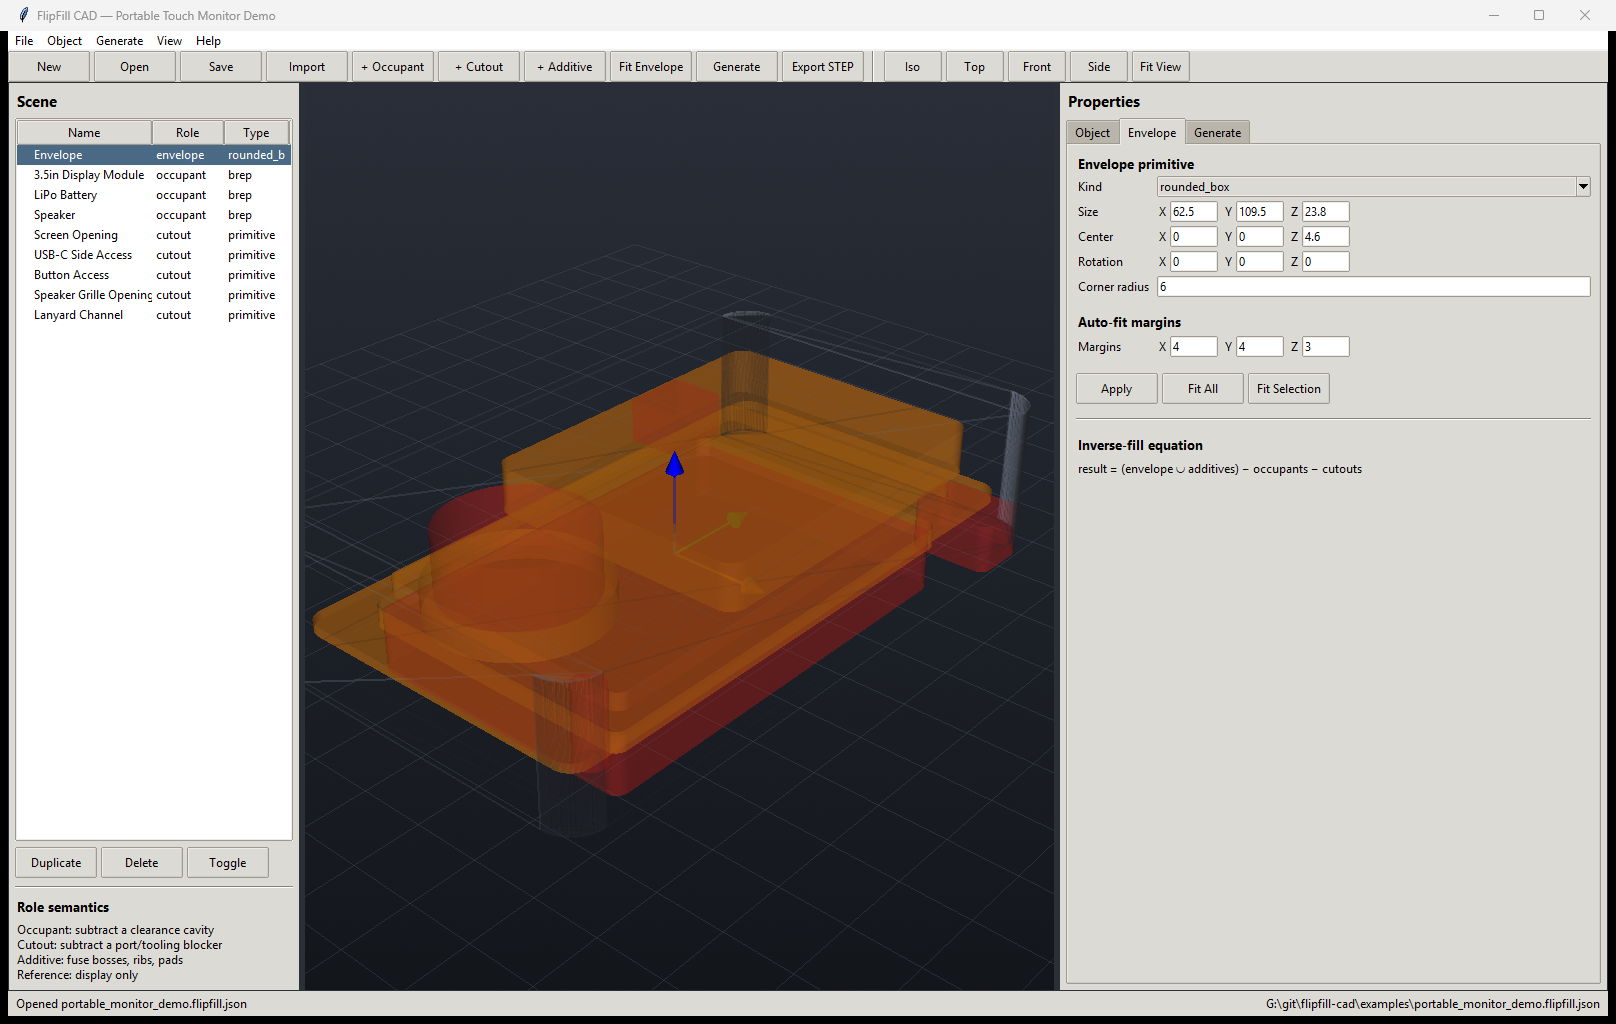
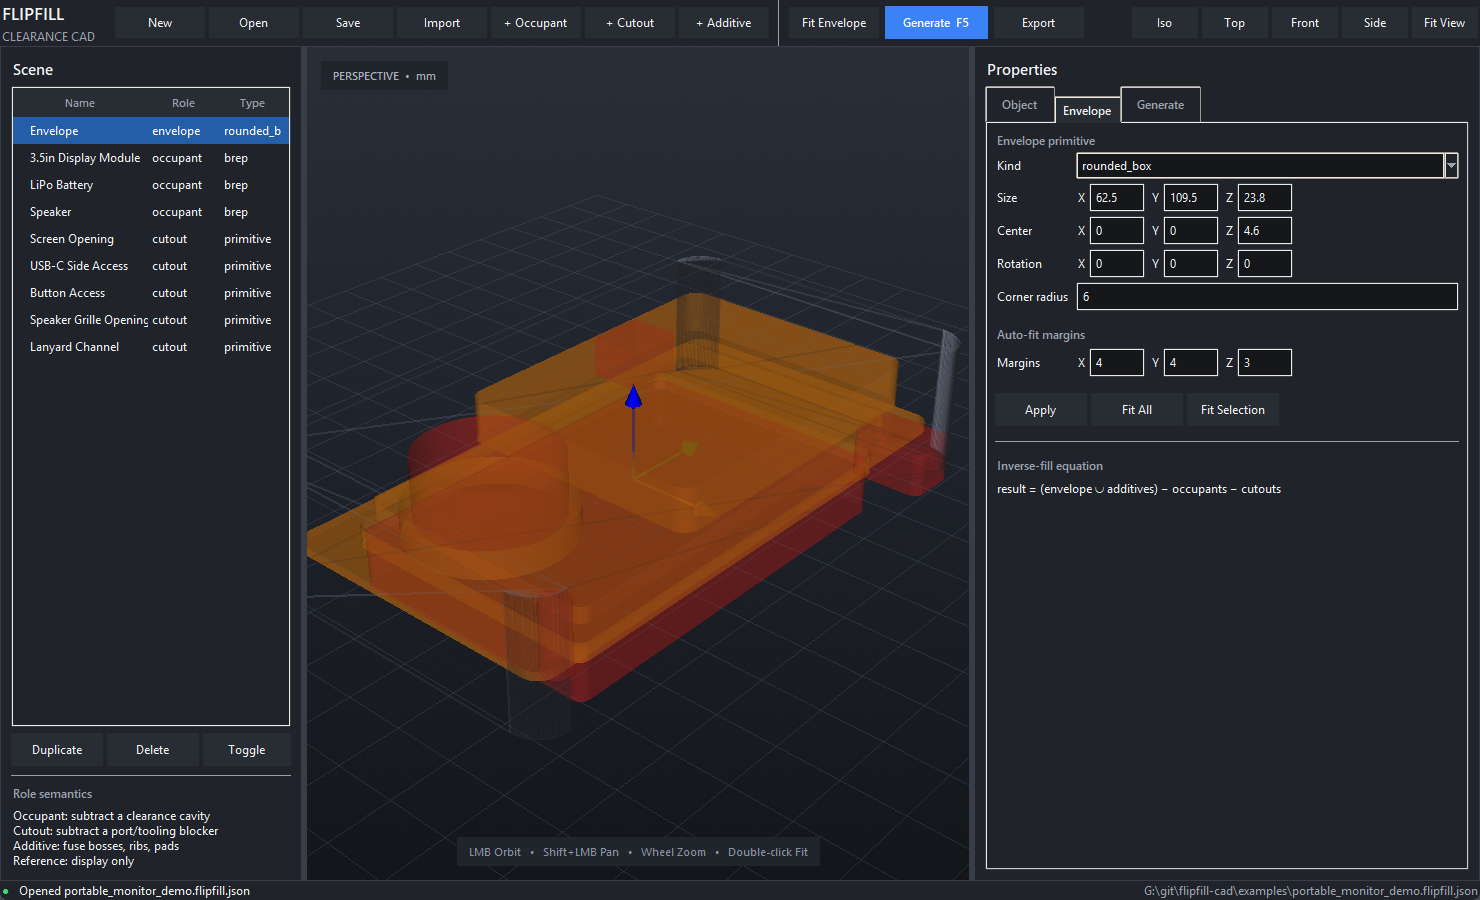
feat(ui): modernize the CAD workspace

diff --git a/src/flipfill/ui/app.py b/src/flipfill/ui/app.py
@@ -40,6 +40,9 @@ class FlipFillApp:
         self.root.geometry("1480x900")
         self.root.minsize(1120, 700)
 
+        self.appearance = tk.StringVar(value="Dark")
+        self.palette: dict[str, str] = {}
+
         self.project = Project()
         self.project_path: Path | None = None
         self.repository = GeometryRepository()
@@ -53,6 +56,7 @@ class FlipFillApp:
         self._build_toolbar()
         self._build_workspace()
         self._build_statusbar()
+        self._apply_theme()
         self.root.protocol("WM_DELETE_WINDOW", self.on_close)
 
         if initial_project:
@@ -68,13 +72,76 @@ class FlipFillApp:
         available = style.theme_names()
         if "clam" in available:
             style.theme_use("clam")
-        style.configure("Toolbar.TFrame", padding=5)
-        style.configure("Title.TLabel", font=("Segoe UI", 11, "bold"))
-        style.configure("Section.TLabel", font=("Segoe UI", 10, "bold"))
-        style.configure("Danger.TLabel", foreground="#b03a2e")
+        self._apply_theme()
+
+    def _apply_theme(self) -> None:
+        dark = self.appearance.get() == "Dark"
+        p = {
+            "bg": "#17191d" if dark else "#f3f4f6",
+            "panel": "#202329" if dark else "#ffffff",
+            "panel_2": "#282c33" if dark else "#e9ebef",
+            "field": "#15171b" if dark else "#ffffff",
+            "text": "#f1f3f5" if dark else "#20242b",
+            "muted": "#9ba3af" if dark else "#626b78",
+            "border": "#383e47" if dark else "#cbd0d8",
+            "accent": "#3b82f6",
+            "accent_active": "#2563eb",
+            "selection": "#245da8" if dark else "#cfe2ff",
+            "danger": "#ff7272" if dark else "#b42318",
+        }
+        self.palette = p
+        self.root.configure(background=p["bg"])
+        style = ttk.Style(self.root)
+        style.configure(".", background=p["panel"], foreground=p["text"], font=("Segoe UI", 9))
+        style.configure("TFrame", background=p["panel"])
+        style.configure("Toolbar.TFrame", background=p["panel"], padding=(12, 8))
+        style.configure("Status.TFrame", background=p["panel"], padding=(12, 5))
+        style.configure("TLabel", background=p["panel"], foreground=p["text"])
+        style.configure("Title.TLabel", font=("Segoe UI Semibold", 11), foreground=p["text"])
+        style.configure("Brand.TLabel", font=("Segoe UI Semibold", 13), foreground=p["text"])
+        style.configure("Muted.TLabel", foreground=p["muted"])
+        style.configure("Section.TLabel", font=("Segoe UI Semibold", 9), foreground=p["muted"])
+        style.configure("Danger.TLabel", foreground=p["danger"])
+        style.configure("TButton", padding=(10, 6), background=p["panel_2"], foreground=p["text"], relief="flat")
+        style.map("TButton", background=[("active", p["border"]), ("pressed", p["field"])])
+        style.configure("Accent.TButton", background=p["accent"], foreground="#ffffff", font=("Segoe UI Semibold", 9))
+        style.map("Accent.TButton", background=[("active", p["accent_active"]), ("pressed", p["accent_active"])])
+        style.configure("Tool.TButton", padding=(9, 5))
+        style.configure("TEntry", fieldbackground=p["field"], foreground=p["text"], insertcolor=p["text"], bordercolor=p["border"], padding=5)
+        style.configure("TCombobox", fieldbackground=p["field"], foreground=p["text"], arrowcolor=p["muted"], padding=4)
+        style.map("TCombobox", fieldbackground=[("readonly", p["field"])], foreground=[("readonly", p["text"])])
+        style.configure("Treeview", background=p["panel"], fieldbackground=p["panel"], foreground=p["text"], bordercolor=p["border"], rowheight=27)
+        style.configure("Treeview.Heading", background=p["panel_2"], foreground=p["muted"], font=("Segoe UI Semibold", 8), padding=(5, 6), relief="flat")
+        style.map("Treeview", background=[("selected", p["selection"])], foreground=[("selected", "#ffffff" if dark else p["text"])])
+        style.configure("TNotebook", background=p["panel"], bordercolor=p["border"])
+        style.configure("TNotebook.Tab", background=p["panel"], foreground=p["muted"], padding=(14, 8), font=("Segoe UI Semibold", 9))
+        style.map("TNotebook.Tab", background=[("selected", p["panel_2"])], foreground=[("selected", p["text"])])
+        style.configure("TSeparator", background=p["border"])
+        if hasattr(self, "pane"):
+            self.pane.configure(bg=p["border"])
+        if hasattr(self, "log"):
+            self.log.configure(background=p["field"], foreground=p["text"], insertbackground=p["text"], selectbackground=p["selection"], relief=tk.FLAT)
+        if hasattr(self, "viewport"):
+            self.viewport.set_theme(dark)
+        if hasattr(self, "menu"):
+            self._style_menu(self.menu)
+
+    def _style_menu(self, menu: tk.Menu) -> None:
+        p = self.palette
+        menu.configure(background=p["panel"], foreground=p["text"], activebackground=p["selection"], activeforeground="#ffffff", borderwidth=0)
+        end = menu.index("end")
+        if end is not None:
+            for index in range(end + 1):
+                try:
+                    child = menu.nametowidget(menu.entrycget(index, "menu"))
+                except (tk.TclError, KeyError):
+                    continue
+                if isinstance(child, tk.Menu):
+                    self._style_menu(child)
 
     def _build_menu(self) -> None:
         menu = tk.Menu(self.root)
+        self.menu = menu
 
         file_menu = tk.Menu(menu, tearoff=False)
         file_menu.add_command(label="New", accelerator="Ctrl+N", command=self.new_project)
@@ -130,6 +197,11 @@ class FlipFillApp:
         view_menu.add_command(label="Side", command=self.viewport_side)
         view_menu.add_separator()
         view_menu.add_command(label="Save Viewport PNG…", command=self.save_viewport_png)
+        view_menu.add_separator()
+        appearance_menu = tk.Menu(view_menu, tearoff=False)
+        for label in ("Dark", "Light"):
+            appearance_menu.add_radiobutton(label=label, value=label, variable=self.appearance, command=self._apply_theme)
+        view_menu.add_cascade(label="Appearance", menu=appearance_menu)
         menu.add_cascade(label="View", menu=view_menu)
 
         help_menu = tk.Menu(menu, tearoff=False)
@@ -138,6 +210,7 @@ class FlipFillApp:
         menu.add_cascade(label="Help", menu=help_menu)
 
         self.root.config(menu=menu)
+        self._style_menu(menu)
         self.root.bind("<Control-n>", lambda _: self.new_project())
         self.root.bind("<Control-o>", lambda _: self.open_project())
         self.root.bind("<Control-s>", lambda _: self.save_project())
@@ -149,6 +222,11 @@ class FlipFillApp:
         bar = ttk.Frame(self.root, style="Toolbar.TFrame")
         bar.pack(side=tk.TOP, fill=tk.X)
 
+        brand = ttk.Frame(bar)
+        brand.pack(side=tk.LEFT, padx=(0, 18))
+        ttk.Label(brand, text="FLIPFILL", style="Brand.TLabel").pack(anchor=tk.W)
+        ttk.Label(brand, text="CLEARANCE CAD", style="Muted.TLabel").pack(anchor=tk.W)
+
         buttons: list[tuple[str, Callable[[], None]]] = [
             ("New", self.new_project),
             ("Open", self.open_project),
@@ -157,16 +235,18 @@ class FlipFillApp:
             ("+ Occupant", lambda: self.add_primitive(ObjectRole.OCCUPANT)),
             ("+ Cutout", lambda: self.add_primitive(ObjectRole.CUTOUT)),
             ("+ Additive", lambda: self.add_primitive(ObjectRole.ADDITIVE)),
-            ("Fit Envelope", self.fit_envelope_all),
-            ("Generate", self.generate_model),
-            ("Export STEP", self.export_step),
         ]
         for index, (label, command) in enumerate(buttons):
-            ttk.Button(bar, text=label, command=command).pack(
+            ttk.Button(bar, text=label, command=command, style="Tool.TButton").pack(
                 side=tk.LEFT, padx=(0 if index == 0 else 4, 0)
             )
 
         ttk.Separator(bar, orient=tk.VERTICAL).pack(side=tk.LEFT, fill=tk.Y, padx=8)
+        ttk.Button(bar, text="Fit Envelope", command=self.fit_envelope_all, style="Tool.TButton").pack(side=tk.LEFT, padx=2)
+        ttk.Button(bar, text="Generate  F5", command=self.generate_model, style="Accent.TButton").pack(side=tk.LEFT, padx=4)
+        ttk.Button(bar, text="Export", command=self.export_step, style="Tool.TButton").pack(side=tk.LEFT, padx=2)
+        views = ttk.Frame(bar)
+        views.pack(side=tk.RIGHT)
         for label, command in [
             ("Iso", self.viewport_isometric),
             ("Top", self.viewport_top),
@@ -174,24 +254,25 @@ class FlipFillApp:
             ("Side", self.viewport_side),
             ("Fit View", self._fit_camera),
         ]:
-            ttk.Button(bar, text=label, width=7, command=command).pack(side=tk.LEFT, padx=2)
+            ttk.Button(views, text=label, width=7, command=command, style="Tool.TButton").pack(side=tk.LEFT, padx=2)
 
     def _build_workspace(self) -> None:
         pane = tk.PanedWindow(
             self.root,
             orient=tk.HORIZONTAL,
             sashwidth=6,
-            bg="#2b2f36",
+            bg=self.palette["border"],
             showhandle=False,
         )
+        self.pane = pane
         pane.pack(fill=tk.BOTH, expand=True)
 
-        left = ttk.Frame(pane, padding=6)
+        left = ttk.Frame(pane, padding=10)
         center = ttk.Frame(pane)
-        right = ttk.Frame(pane, padding=6)
-        pane.add(left, minsize=240, width=290)
+        right = ttk.Frame(pane, padding=10)
+        pane.add(left, minsize=250, width=300)
         pane.add(center, minsize=500, stretch="always")
-        pane.add(right, minsize=315, width=365)
+        pane.add(right, minsize=330, width=380)
 
         self._build_scene_panel(left)
         self.viewport = CadViewport(center, on_select=self._viewport_selected)
@@ -478,10 +559,11 @@ class FlipFillApp:
 
     def _build_statusbar(self) -> None:
         self.status = tk.StringVar(value="Ready")
-        frame = ttk.Frame(self.root, padding=(6, 3))
+        frame = ttk.Frame(self.root, style="Status.TFrame")
         frame.pack(side=tk.BOTTOM, fill=tk.X)
+        ttk.Label(frame, text="●", foreground="#43d17b").pack(side=tk.LEFT, padx=(0, 6))
         ttk.Label(frame, textvariable=self.status).pack(side=tk.LEFT)
-        self.project_label = ttk.Label(frame, text="")
+        self.project_label = ttk.Label(frame, text="", style="Muted.TLabel")
         self.project_label.pack(side=tk.RIGHT)
 
     # ------------------------------------------------------------------

diff --git a/src/flipfill/ui/viewport.py b/src/flipfill/ui/viewport.py
@@ -51,6 +51,26 @@ class CadViewport(tk.Frame):
             cursor="fleur",
         )
         self.canvas.pack(fill=tk.BOTH, expand=True)
+        self.view_badge = tk.Label(
+            self.canvas,
+            text="PERSPECTIVE  •  mm",
+            background="#20242b",
+            foreground="#aab2bf",
+            font=("Segoe UI Semibold", 8),
+            padx=10,
+            pady=6,
+        )
+        self.view_badge.place(x=14, y=14)
+        self.navigation_hint = tk.Label(
+            self.canvas,
+            text="LMB Orbit   •   Shift+LMB Pan   •   Wheel Zoom   •   Double-click Fit",
+            background="#20242b",
+            foreground="#8993a2",
+            font=("Segoe UI", 8),
+            padx=10,
+            pady=6,
+        )
+        self.navigation_hint.place(relx=0.5, rely=1.0, y=-14, anchor=tk.S)
         self.canvas.bind("<Configure>", self._on_resize)
         self.canvas.bind("<ButtonPress-1>", self._left_press)
         self.canvas.bind("<B1-Motion>", self._left_drag)
@@ -67,6 +87,17 @@ class CadViewport(tk.Frame):
         self.canvas.bind("<Double-Button-1>", lambda event: self.fit_camera())
 
         self.scene = SceneRenderer(width=900, height=700)
+
+    def set_theme(self, dark: bool) -> None:
+        """Match viewport chrome to the application theme.
+
+        The 3D world intentionally remains dark in both modes, like most CAD
+        workstations, so silhouettes and role colors stay consistent.
+        """
+        background = "#20242b" if dark else "#eef1f5"
+        foreground = "#aab2bf" if dark else "#596273"
+        self.view_badge.configure(background=background, foreground=foreground)
+        self.navigation_hint.configure(background=background, foreground=foreground)
 
     # ------------------------------------------------------------------
     # Scene building
@@ -209,18 +240,22 @@ class CadViewport(tk.Frame):
 
     def camera_isometric(self) -> None:
         self.scene.camera_isometric()
+        self.view_badge.configure(text="ISOMETRIC  •  mm")
         self.request_render()
 
     def camera_top(self) -> None:
         self.scene.camera_top()
+        self.view_badge.configure(text="TOP  •  mm")
         self.request_render()
 
     def camera_front(self) -> None:
         self.scene.camera_front()
+        self.view_badge.configure(text="FRONT  •  mm")
         self.request_render()
 
     def camera_side(self) -> None:
         self.scene.camera_side()
+        self.view_badge.configure(text="RIGHT  •  mm")
         self.request_render()
 
     # ------------------------------------------------------------------
